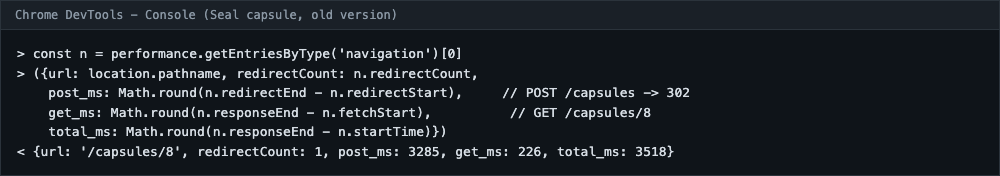
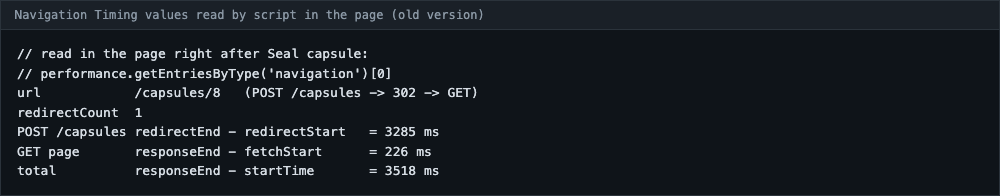
Lab 7 report: correct timings, honest Navigation Timing captions

diff --git a/docs/lab7/README.md b/docs/lab7/README.md
@@ -63,7 +63,7 @@ _После включения `Raw message delivery` (отзыв `r-2`): тел
 _Атрибут SNS `rating` стал атрибутом сообщения SQS._
 
 > **Какие значения параметров вы выбрали и почему? Как выглядит тело сообщения в очереди с `Raw message delivery` и без него? Почему сообщение снова видно в очереди через некоторое время после того, как вы его получили?**
-> Таймаут видимости 30 с: AWS рекомендует ставить его не меньше чем в 6 раз больше таймаута Lambda-функции (5 с), чтобы сообщение не вернулось в очередь, пока его ещё обрабатывают (повторные попытки службы Lambda, окно пачки). Короче нельзя - пачку получил бы второй вызов и отзыв обработался бы дважды; намного длиннее - после ошибки повтор ждал бы долго. Хранение 4 дня (по умолчанию) хватает, чтобы пережить выходные без обработчика; у DLQ 14 дней (максимум): срок хранения в DLQ считается от исходной отправки, и там нужно время, чтобы разобраться и вернуть сообщения. `maxReceiveCount` = 5 - рекомендация AWS для очередей с Lambda: получение, которое служба Lambda сделала, но не успела отдать функции (throttling), тоже считается, и при 1-2 сообщение могло бы попасть в DLQ без единой настоящей попытки. Без `Raw message delivery` тело - конверт SNS (JSON с метаданными и подписью), отзыв приходится разбирать дважды (`json.loads(body)["Message"]`); с ним тело - сам отзыв, а атрибуты SNS переходят в атрибуты SQS. Я включил raw: получателю метаданные SNS не нужны, сообщение меньше, код проще. Сообщение снова видно, потому что получение его не удаляет, а только прячет на время таймаута видимости: консоль не вызывает `DeleteMessage`, и SQS считает, что получатель не справился, и отдаёт сообщение снова (`Receive count` растёт). Так SQS гарантирует доставку хотя бы один раз.
+> Таймаут видимости 30 с: AWS рекомендует ставить его не меньше чем в 6 раз больше таймаута Lambda-функции плюс окно сбора пачки, чтобы сообщение не вернулось в очередь, пока его ещё обрабатывают. У меня 6 × 5 с = 30 с, а с окном 3 с по рекомендации нужно 33 с - окно я добавил уже после выбора таймаута, и строго правило не выполнено; на практике функция работает миллисекунды, повторов из-за этого не было, но правильно было поставить 35-40 с. Короче нельзя - пачку получил бы второй вызов и отзыв обработался бы дважды; намного длиннее - после ошибки повтор ждал бы долго. Хранение 4 дня (по умолчанию) хватает, чтобы пережить выходные без обработчика; у DLQ 14 дней (максимум): срок хранения в DLQ считается от исходной отправки, и там нужно время, чтобы разобраться и вернуть сообщения. `maxReceiveCount` = 5 - рекомендация AWS для очередей с Lambda: получение, которое служба Lambda сделала, но не успела отдать функции (throttling), тоже считается, и при 1-2 сообщение могло бы попасть в DLQ без единой настоящей попытки. Без `Raw message delivery` тело - конверт SNS (JSON с метаданными и подписью), отзыв приходится разбирать дважды (`json.loads(body)["Message"]`); с ним тело - сам отзыв, а атрибуты SNS переходят в атрибуты SQS. Я включил raw: получателю метаданные SNS не нужны, сообщение меньше, код проще. Сообщение снова видно, потому что получение его не удаляет, а только прячет на время таймаута видимости: консоль не вызывает `DeleteMessage`, и SQS считает, что получатель не справился, и отдаёт сообщение снова (`Receive count` растёт). Так SQS гарантирует доставку хотя бы один раз.
 
 ### Задание 2. Обработчик отзывов
 
@@ -177,13 +177,13 @@ CREATE UNIQUE INDEX IF NOT EXISTS notifications_capsule_kind_key ON notification
 Проверка без приложения: создана капсула 7, и в очередь `SendMessage` дважды отправлено одно и то же `capsule.sealed` для неё.
 
 ![duplicate log](screenshots/14-mailer-duplicate-log.jpg)
-_Журнал: два разных потока (два экземпляра функции работали одновременно). Первый в 05:52:15 - `sealed notification written`, второй в 05:52:17 - `sealed notification already existed`. Оба прошли предварительную проверку (уведомления ещё не было) и оба ждали 3 с, но вставку второго отбросил уникальный индекс. Холодный старт в VPC - около 2 с (`Init Duration`)._
+_Журнал: два разных потока (два экземпляра функции работали одновременно). Первый в 05:52:15 - `sealed notification written`, второй в 05:52:17 - `sealed notification already existed`. Оба прошли предварительную проверку (уведомления ещё не было) и оба ждали 3 с, но вставку второго отбросил уникальный индекс. Холодный старт в VPC - около 0,2 с (от `INIT_START` 05:52:12.44 до `START` 05:52:12.67)._
 
 ![duplicate db](screenshots/13-mailer-duplicate-db.png)
 _В `notifications` для капсулы 7 одна строка `sealed`. `tcq` - обёртка `psql` на сервере, которая берёт подключение из `.env`, не показывая пароль._
 
 > **Сколько уведомлений появилось после двух одинаковых сообщений и почему? Какой предел одновременных вызовов вы выбрали и из чего исходили?**
-> Одно. Проверка «уведомление уже есть» перед паузой спасает только от последовательных повторов, а здесь два сообщения разобрали два экземпляра функции одновременно, и проверку прошли оба. Решает уникальный индекс `(capsule_id, kind)`: база атомарно примет только одну вставку, вторая с `ON CONFLICT DO NOTHING` ничего не делает и не падает. Предел - 2 одновременных вызова (`MaximumConcurrency` у триггера, это минимум, который допускает SQS). Исходил из базы: `db.t4g.micro` с 1 ГиБ памяти держит около 80 подключений, и их делят веб-серверы (2-4 PHP-FPM с пулом) и обе функции; у роли `timecapsule_worker` ещё и `CONNECTION LIMIT 5`. Каждый одновременный вызов держит своё подключение, поэтому без предела всплеск писем мог бы открыть сотни подключений и уронить сайт. Писем мало, и задержка в несколько секунд не важна - пропускной способности 2 × 5 сообщений за ~15 с хватает с запасом. Зарезервированную конкурентность (`reserved concurrency`) задать нельзя: у аккаунта бесплатного плана лимит 10 одновременных вызовов на регион, и AWS требует оставлять 10 незарезервированными.
+> Одно. Проверка «уведомление уже есть» перед паузой спасает только от последовательных повторов, а здесь два сообщения разобрали два экземпляра функции одновременно, и проверку прошли оба. Решает уникальный индекс `(capsule_id, kind)`: база атомарно примет только одну вставку, вторая с `ON CONFLICT DO NOTHING` ничего не делает и не падает. Предел - 2 одновременных вызова (`MaximumConcurrency` у триггера, это минимум, который допускает SQS). Исходил из базы: `db.t4g.micro` с 1 ГиБ памяти держит около 80 подключений, и их делят веб-серверы (2-4 PHP-FPM с пулом) и обе функции; у роли `timecapsule_worker` ещё и `CONNECTION LIMIT 5`. Каждый одновременный вызов держит своё подключение, поэтому без предела всплеск писем мог бы открыть сотни подключений и уронить сайт. Писем мало, и задержка в несколько секунд не важна - пропускной способности 2 × 5 сообщений за ~15 с хватает с запасом. Зарезервированную конкурентность (`reserved concurrency`) задать нельзя: у аккаунта бесплатного плана лимит 10 одновременных вызовов на регион, а AWS требует оставлять 10 незарезервированными - попытка `PutFunctionConcurrency` = 2 вернула `Specified ReservedConcurrentExecutions for function decreases account's UnreservedConcurrentExecution below its minimum value of [10]`.
 
 ### Задание 7. Публикация событий из приложения
 
@@ -199,20 +199,20 @@ _В `notifications` для капсулы 7 одна строка `sealed`. `tcq
 ![refresh](screenshots/21-instance-refresh.jpg)
 _Instance refresh группы `timecapsule-dev-asg` - серверы заменяются на версию 2 шаблона (статус `Successful` через ~4 минуты)._
 
-Время запроса я мерил в той же вкладке Chrome через Navigation Timing API (`performance.getEntriesByType('navigation')`) - это те же данные, что вкладка `Network`: `redirectStart..redirectEnd` - запрос `POST /capsules` до ответа `302`, дальше `GET` страницы капсулы. DevTools открыть в управляемой вкладке не удалось, поэтому вместо скриншота `Network` - вывод консоли.
+Время запроса я мерил в той же вкладке Chrome сразу после `Seal capsule`: скрипт на странице прочитал запись Navigation Timing (`performance.getEntriesByType('navigation')[0]`) - это те же замеры, что показывает вкладка `Network`: `redirectEnd - redirectStart` - запрос `POST /capsules` до ответа `302`, `responseEnd - fetchStart` - `GET` страницы капсулы. Значения скопированы и отрисованы ниже. **Скриншота вкладки `Network` в отчёте нет**: DevTools в управляемой вкладке открыть не удалось; на защите я покажу `Network` вживую.
 
 ![before](screenshots/15-seal-before-timing.png)
-_До изменения (старый образ): `POST /capsules` **3285 мс**, из них 3 с - ожидание «почтового сервера» внутри запроса._
+_До изменения (старый образ), значения Navigation Timing для капсулы 8: `POST /capsules` **3285 мс**, из них 3 с - ожидание «почтового сервера» внутри запроса._
 
 ![before page](screenshots/16-seal-before-page.jpg)
 
 ![after](screenshots/19-seal-after-timing.png)
-_После выпуска: **406 мс**; веб-сервер только публикует событие (запрос к SNS - десятки миллисекунд), остальное - сохранение в RDS и S3-проверки._
+_После выпуска, капсула 9: **406 мс**; веб-сервер только публикует событие (запрос к SNS - десятки миллисекунд), остальное - сохранение в RDS._
 
 ![after page](screenshots/20-seal-after-page.jpg)
 _В подвале новая строка `LR7: e-mail and opening in AWS Lambda` и новый сервер группы `ip-10-16-1-9`._
 
-Уведомление для капсулы 9 записала Lambda-функция через ~1,3 с после ответа пользователю, для капсулы 8 (старая версия) - сам веб-сервер, поэтому у неё `kind` пустой:
+Уведомление для капсулы 9 записала Lambda-функция примерно через 4 с после ответа пользователю (ответ ~06:21:41,6, строка 06:21:45,5: 3 с `MAIL_DELAY_SECONDS` и ~1 с на путь SNS → SQS → Lambda) - пользователь ждал 0,4 с, а письмо всё равно «ушло», для капсулы 8 (старая версия) - сам веб-сервер, поэтому у неё `kind` пустой:
 
 ```
  id | capsule_id |  kind  | message                                                               | created_at

diff --git a/docs/adr/0006-background-jobs.md b/docs/adr/0006-background-jobs.md
@@ -50,6 +50,6 @@
 
 - Если SNS недоступен в момент запечатывания, событие теряется (капсула сохраняется, ошибка пишется в журнал PHP). Надёжнее шаблон outbox: событие пишется в таблицу в той же транзакции, что и капсула, а отдельный процесс публикует его.
 - Если служба Lambda открыла капсулы, но не доставила запись о вызове в тему, уведомление `opened` и письмо не появятся (капсула уже открыта). Это редкий случай; защититься можно назначением `OnFailure` в DLQ или сверкой «открытые капсулы без уведомления `opened`».
-- Пароль `timecapsule_worker` лежит в переменных окружения функций (шифрование KMS по умолчанию). Secrets Manager потребовал бы VPC endpoint (≈ $7 в месяц на зону) или NAT; для учебного проекта не оправдано.
+- Пароль `timecapsule_worker` лежит в переменных окружения функций (шифрование KMS по умолчанию). Secrets Manager потребовал бы VPC endpoint (≈ $9 в месяц на зону) или NAT; для учебного проекта не оправдано.
 - Сертификат RDS функции не проверяют (CA-бандл не включён в пакет); следующий шаг - положить `global-bundle.pem` в zip и включить проверку.
 - Пустая запись о вызове публикуется в тему каждую минуту (~44 000 сообщений SNS в месяц, в пределах бесплатного миллиона); фильтры подписок отсекают их до очереди и почты.
